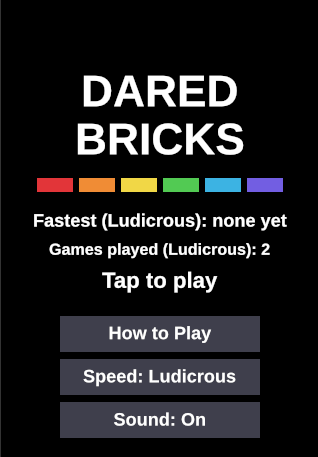
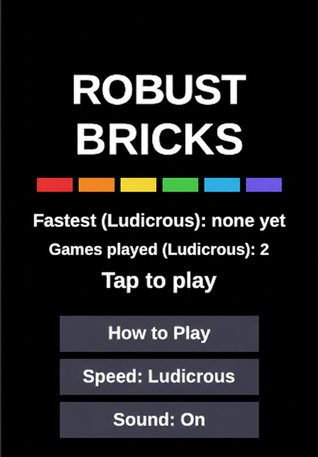
Add Robust Bricks level campaign and CI

diff --git a/src/BricksView.m b/src/BricksView.m
@@ -4,15 +4,13 @@
  * file, You can obtain one at https://mozilla.org/MPL/2.0/.
  */
 
-// A single level of brick breaking with a random brick layout. A title screen
-// shows the fastest winning time and the number of games played, and has
-// buttons for How to Play, the ball speed (Normal, Fast or Ludicrous) and sound
-// on or off. All of these are saved between launches, with a separate fastest
-// time and games played count for each speed. Drag anywhere to move the paddle,
-// tap to serve. There are three balls per game, and a timer runs from the first
-// serve until the game ends. Clearing every brick shows YOU WIN, with bursts of
-// colored pieces behind it, and losing the last ball shows GAME OVER with the
-// number of bricks left. Tapping after either goes back to the title screen.
+// A five-level brick-breaking game. The first level has a random brick layout;
+// four handcrafted layouts follow. A title screen shows the fastest campaign
+// time and number of games played, with buttons for How to Play, ball speed
+// (Normal, Fast or Ludicrous) and sound. Drag anywhere to move the paddle, tap
+// to serve or continue. The campaign starts with three balls, and the timer runs
+// from the first serve until the final level is cleared or the last ball is
+// lost. Clearing all five levels shows YOU WIN, with bursts of colored pieces.
 //
 // Broken bricks sometimes drop a capsule, which takes effect if the paddle
 // catches it: B (ball added), P (paddle size increased, for 15 seconds), S
@@ -91,16 +89,25 @@ static const CGFloat rowColors[BRICK_ROWS][3] = {
     {0.30f, 0.80f, 0.30f}, {0.20f, 0.70f, 0.90f}, {0.45f, 0.35f, 0.90f},
 };
 
+// Levels 2–5, top to bottom. Each byte is one row, with bit 0 as the leftmost
+// brick. The layouts are symmetric patterns inspired by classic block games.
+static const unsigned char levelLayouts[LEVEL_COUNT - 1][BRICK_ROWS] = {
+    {0x3c, 0x7e, 0xff, 0xff, 0x7e, 0x3c}, // Diamond
+    {0xff, 0x00, 0xff, 0x00, 0xff, 0x00}, // Bars
+    {0x81, 0xc3, 0x66, 0x3c, 0x66, 0xc3}, // Arrow
+    {0xff, 0x99, 0x99, 0xff, 0x99, 0x99}, // Gate
+};
+
 // Speed names, ball speed multipliers and the NSUserDefaults keys for the
-// fastest winning time (in ticks) and the number of games started, in the
-// order of the Speed enum. Normal keeps the keys from before there was a speed
-// setting, and so also the games played count from 1.0, which was for all
-// speeds together.
+// fastest campaign time (in ticks) and the number of games started, in the
+// order of the Speed enum. Game-count keys are kept so existing counts survive
+// the campaign update.
 static const char *const speedNames[SpeedCount] = {"Normal", "Fast",
                                                    "Ludicrous"};
 static const CGFloat speedMultipliers[SpeedCount] = {1.0f, 1.5f, 2.5f};
 static const char *const fastestTicksKeys[SpeedCount] = {
-    "FastestTicks", "FastestTicksFast", "FastestTicksLudicrous"};
+    "RobustBricksCampaignFastestTicks", "RobustBricksCampaignFastestTicksFast",
+    "RobustBricksCampaignFastestTicksLudicrous"};
 static const char *const gamesPlayedKeys[SpeedCount] = {
     "GamesPlayed", "GamesPlayedFast", "GamesPlayedLudicrous"};
 
@@ -278,6 +285,24 @@ static void saveInteger(const char *key, NSInteger value) {
   } while (bricksLeft < 16);
 }
 
+- (void)loadLevel:(int)newLevel {
+  level = newLevel;
+  if (level == 1) {
+    [self randomizeBricks];
+    return;
+  }
+
+  const unsigned char *layout = levelLayouts[level - 2];
+  bricksLeft = 0;
+  for (int row = 0; row < BRICK_ROWS; row++) {
+    for (int column = 0; column < BRICK_COLUMNS; column++) {
+      BOOL present = (layout[row] & (1u << column)) != 0;
+      bricks[row][column] = present;
+      bricksLeft += present ? 1 : 0;
+    }
+  }
+}
+
 // Ends the P and S effects and removes falling capsules and extra balls.
 - (void)clearPowerUps {
   longPaddleTicks = 0;
@@ -293,7 +318,7 @@ static void saveInteger(const char *key, NSInteger value) {
 }
 
 - (void)resetGame {
-  [self randomizeBricks];
+  [self loadLevel:1];
   [self clearPowerUps];
   for (int i = 0; i < MAX_PIECES; i++) {
     pieces[i].active = NO;
@@ -303,6 +328,15 @@ static void saveInteger(const char *key, NSInteger value) {
   timerRunning = NO;
   newRecord = NO;
   paddleX = [self width] / 2;
+  state = StateServing;
+  [self placeBallOnPaddle];
+}
+
+- (void)startLevel:(int)newLevel {
+  [self loadLevel:newLevel];
+  [self clearPowerUps];
+  [self movePaddleTo:paddleX];
+  timerRunning = NO;
   state = StateServing;
   [self placeBallOnPaddle];
 }
@@ -479,11 +513,15 @@ static void saveInteger(const char *key, NSInteger value) {
       }
 
       if (bricksLeft == 0) {
-        state = StateWon;
-        timerRunning = NO;
         [self clearPowerUps];
-        [self recordWin];
-        celebrationTicks = 0;
+        timerRunning = NO;
+        if (level < LEVEL_COUNT) {
+          state = StateLevelComplete;
+        } else {
+          state = StateWon;
+          [self recordWin];
+          celebrationTicks = 0;
+        }
       } else {
         [self maybeDropCapsuleAtX:x + BRICK_WIDTH / 2 y:y];
       }
@@ -696,6 +734,9 @@ static void saveInteger(const char *key, NSInteger value) {
     balls[0].dy = -BALL_SPEED;
     state = StatePlaying;
     timerRunning = YES;
+  } else if (state == StateLevelComplete) {
+    [self startLevel:level + 1];
+    SoundPlay(SoundBounce);
   } else if (state == StateTitle &&
              [self button:[self howToPlayButtonFrame]
                  contains:[touch locationInView:self]]) {
@@ -786,7 +827,7 @@ static void saveInteger(const char *key, NSInteger value) {
   CGFloat width = [self width];
   CGFloat height = [self height];
 
-  [self drawText:"DARED"
+  [self drawText:"ROBUST"
           inRect:CGRectMake(0, height * 0.14f, width, 50)
         fontSize:44
          context:context];
@@ -849,9 +890,8 @@ static void saveInteger(const char *key, NSInteger value) {
           inRect:CGRectMake(0, 24, width, 36)
         fontSize:28
          context:context];
-  [self drawText:"Drag anywhere to move the paddle, and tap to serve. Clear "
-                 "every brick to win. You have three balls, and the clock "
-                 "runs from your first serve."
+  [self drawText:"Drag to move the paddle and tap to serve. Clear all five "
+                 "levels to win. You start with three balls."
           inRect:CGRectMake(16, 74, width - 32, 80)
         fontSize:15
        alignment:UITextAlignmentLeft
@@ -985,7 +1025,7 @@ static void saveInteger(const char *key, NSInteger value) {
   [self drawText:ballsText
           inRect:CGRectMake(width - 110, 20, 100, 24)
         fontSize:16
-       alignment:UITextAlignmentRight
+         alignment:UITextAlignmentRight
          context:context];
 
   // Active P, R and S effects, with the seconds they have left, in between.
@@ -1001,6 +1041,37 @@ static void saveInteger(const char *key, NSInteger value) {
             inRect:CGRectMake(width / 2 - 60, 20, 120, 24)
           fontSize:16
            context:context];
+  }
+
+  char levelText[24] = "Level ";
+  int levelLength = appendNumber(levelText, 6, level);
+  levelLength = appendString(levelText, levelLength, "/");
+  levelText[appendNumber(levelText, levelLength, LEVEL_COUNT)] = 0;
+  [self drawText:levelText
+          inRect:CGRectMake(10, 42, 150, 24)
+        fontSize:16
+       alignment:UITextAlignmentLeft
+         context:context];
+
+  if (state == StateLevelComplete) {
+    [self drawText:"LEVEL CLEARED"
+            inRect:CGRectMake(0, height / 2 - 50, width, 44)
+          fontSize:32
+           context:context];
+    char levelCompleteText[32] = "Level ";
+    int completeLength = appendNumber(levelCompleteText, 6, level);
+    completeLength = appendString(levelCompleteText, completeLength, " of ");
+    completeLength = appendNumber(levelCompleteText, completeLength, LEVEL_COUNT);
+    levelCompleteText[completeLength] = 0;
+    [self drawText:levelCompleteText
+            inRect:CGRectMake(0, height / 2, width, 26)
+          fontSize:18
+           context:context];
+    [self drawText:"Tap for next level"
+            inRect:CGRectMake(0, height / 2 + 60, width, 30)
+          fontSize:18
+           context:context];
+    return;
   }
 
   if (state == StateWon) {

diff --git a/src/main.m b/src/main.m
@@ -4,20 +4,20 @@
  * file, You can obtain one at https://mozilla.org/MPL/2.0/.
  */
 
-// Dared Bricks: a small homebrew game for iPhone OS 2.x. See README.md for how
+// Robust Bricks: a small homebrew game for iPhone OS 2.x. See README.md for how
 // to build it.
 
 #include "BricksView.h"
 #include "Sound.h"
 #include "System.h"
 
-@interface DaredBricksAppDelegate : NSObject {
+@interface RobustBricksAppDelegate : NSObject {
   UIWindow *window;
   BricksView *view;
 }
 @end
 
-@implementation DaredBricksAppDelegate
+@implementation RobustBricksAppDelegate
 
 - (void)applicationDidFinishLaunching:(UIApplication *)application {
   [application setStatusBarHidden:YES];
@@ -50,7 +50,7 @@
 int main(int argc, char *argv[]) {
   NSAutoreleasePool *pool = [[NSAutoreleasePool alloc] init];
   int result = UIApplicationMain(
-      argc, argv, nil, NSStringFromClass([DaredBricksAppDelegate class]));
+      argc, argv, nil, NSStringFromClass([RobustBricksAppDelegate class]));
   [pool drain];
   return result;
 }

diff --git a/src/BricksView.h b/src/BricksView.h
@@ -8,6 +8,7 @@
 
 #define BRICK_ROWS 6
 #define BRICK_COLUMNS 8
+#define LEVEL_COUNT 5
 #define BALLS_PER_GAME 3
 #define MAX_BALLS_LEFT 9 // The counter shows a single digit.
 #define MAX_BALLS_IN_PLAY 8
@@ -20,6 +21,7 @@ typedef enum {
   StateHowToPlay,
   StateServing,
   StatePlaying,
+  StateLevelComplete,
   StateWon,
   StateLost
 } GameState;
@@ -67,6 +69,7 @@ typedef struct {
   GameState state;
   BOOL bricks[BRICK_ROWS][BRICK_COLUMNS];
   int bricksLeft;
+  int level;
   int ballsLeft;  // Including the ones in play.
   int timerTicks; // Game time, in ticks of 1/60 s.
   BOOL timerRunning;

diff --git a/src/System.h b/src/System.h
@@ -4,7 +4,7 @@
  * file, You can obtain one at https://mozilla.org/MPL/2.0/.
  */
 
-// The few system declarations Dared Bricks needs. They are written out here,
+// The few system declarations Robust Bricks needs. They are written out here,
 // rather than taken from SDK headers, so that the game builds with nothing but
 // a compiler, a linker and stub libraries for the frameworks it links against.
 

diff --git a/README.md b/README.md
@@ -1,4 +1,24 @@
 # Robust Bricks
-This is a fork of Dared-Bricks meant to include more content, such as levels in Arkanoid.
 
-I am not associated with iDared.
+A homebrew brick-breaker game for iPhone OS 2.x. Play a five-level campaign:
+level one generates a fresh mirrored layout, followed by four handcrafted,
+Arkanoid-inspired stages. Keep your remaining balls as you clear each board;
+you start with three and can earn more with power-ups. Finishing the campaign
+records your fastest time for the selected speed.
+
+I am not affiliated with iDared.
+
+## Build
+
+The GitHub Actions workflow builds `build/RobustBricks.ipa` on pushes and pull
+requests. To build locally, download the Linux/macOS common-3.0 SDK from the
+[SDK releases](https://github.com/touchHLE/common-3.0-sdk/releases), extract it,
+and run:
+
+```sh
+make SDK=/path/to/common-3.0.sdk
+```
+
+The build supports iPhone OS 2.0 and later (armv6 and armv7). For the existing
+test configurations, use `make clean` before rebuilding with
+`CAPSULE_CHANCE=1024` or `FULL_PADDLE=true`.
